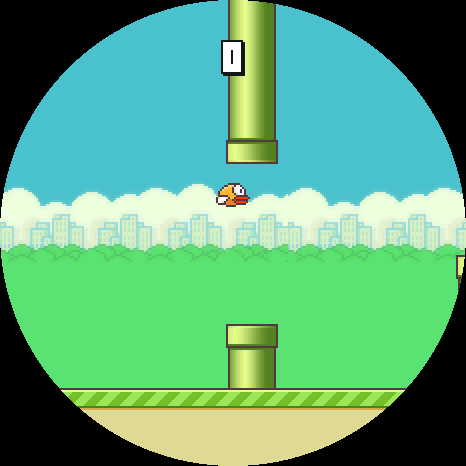
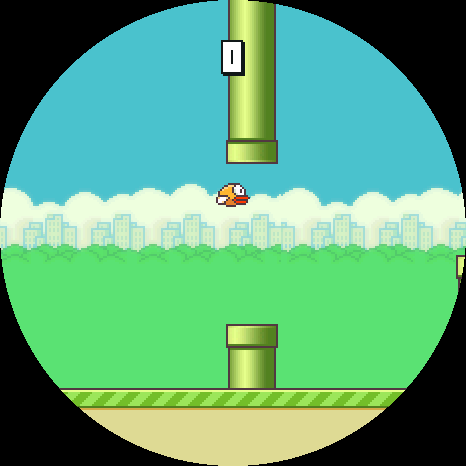
Scroll the scenery in Sky Hop (#3)
The ground moves with the pipes and the town strip behind it at 1/40 of
their speed, while playing. The game keeps how far the pipes have travelled
(scroll), so a full repaint still draws the same as the partial ones. The
ground is repainted every tick; the town strip only when it moves a pixel.
Version 0.1.2.

diff --git a/apps/sky-hop/src/view.rs b/apps/sky-hop/src/view.rs
@@ -20,6 +20,8 @@ const INK: Rgb = Rgb(84, 56, 71);
 pub const SCORE_Y: i32 = 40;
 const DIGIT_H: i32 = 36;
 const DIGIT_GAP: i32 = 2;
+/// The town strip scrolls one px per this many px the pipes travel; the ground goes with the pipes.
+const BAND_SLOW: i32 = 40;
 /// The bird sprite's size, centred on the critter.
 const BIRD_W: i32 = 34;
 const BIRD_H: i32 = 24;
@@ -41,6 +43,8 @@ const DIGITS: [&Sprite; 10] = [
 #[derive(Clone, Copy, PartialEq, Debug)]
 pub struct Seen {
     xs: [i32; crate::game::GATES],
+    band: i32,
+    ground: i32,
     y: i32,
     wing: usize,
     score: u32,
@@ -48,7 +52,7 @@ pub struct Seen {
 }
 
 pub fn seen(g: &Game) -> Seen {
-    Seen { xs: g.gates.map(|gt| gt.x), y: g.hop_y(), wing: g.wing(), score: g.score, state: g.state }
+    Seen { xs: g.gates.map(|gt| gt.x), band: band_x(g), ground: ground_x(g), y: g.hop_y(), wing: g.wing(), score: g.score, state: g.state }
 }
 
 /// A surface that drops what falls outside a box, so a part of the picture can be redrawn alone.
@@ -104,22 +108,37 @@ fn pipes(s: &mut impl Surface, gt: &Gate) {
     shaft(s, gt.x, gt.bottom + PIPE_CAP_H, GROUND_Y - gt.bottom - PIPE_CAP_H);
 }
 
+/// Where the town strip and the ground are scrolled to: how far their tiles are shifted to the left.
+fn band_x(g: &Game) -> i32 {
+    g.scroll / BAND_SLOW % sprites::BAND.w
+}
+
+fn ground_x(g: &Game) -> i32 {
+    g.scroll % sprites::GROUND.w
+}
+
 /// The scenery in a box: sky, the town and grass, the ground. Every pixel of the box once.
-fn scenery(s: &mut impl Surface, x0: i32, y0: i32, w: i32, h: i32) {
+fn scenery(s: &mut impl Surface, g: &Game, x0: i32, y0: i32, w: i32, h: i32) {
     let band_y = GROUND_Y - sprites::BAND.h;
     let mut clip = Clip { s, x0, y0, x1: x0 + w, y1: y0 + h };
     clip.rect(0, 0, SIZE, band_y, sprites::SKY);
-    for x in [0, sprites::BAND.w] {
-        blit(&mut clip, &sprites::BAND, x, band_y);
-    }
-    for x in [0, sprites::GROUND.w] {
-        blit(&mut clip, &sprites::GROUND, x, GROUND_Y);
-    }
+    let tiles = |sp: &Sprite, shift: i32, y: i32, clip: &mut Clip<_>| {
+        if y0 + h > y && y0 < y + sp.h {
+            for k in 0..3 {
+                let x = k * sp.w - shift;
+                if x < x0 + w && x + sp.w > x0 {
+                    blit(clip, sp, x, y);
+                }
+            }
+        }
+    };
+    tiles(&sprites::BAND, band_x(g), band_y, &mut clip);
+    tiles(&sprites::GROUND, ground_x(g), GROUND_Y, &mut clip);
 }
 
 /// The background of a box: the scenery, then the parts of gates in it.
 fn background(s: &mut impl Surface, g: &Game, x0: i32, y0: i32, w: i32, h: i32) {
-    scenery(s, x0, y0, w, h);
+    scenery(s, g, x0, y0, w, h);
     let mut clip = Clip { s, x0, y0, x1: x0 + w, y1: y0 + h };
     for gt in &g.gates {
         pipes(&mut clip, gt);
@@ -127,14 +146,15 @@ fn background(s: &mut impl Surface, g: &Game, x0: i32, y0: i32, w: i32, h: i32) 
 }
 
 /// A gate at its new place; with `from`, the strip it left behind on the right gets the scenery back first.
-fn gate(s: &mut impl Surface, gt: &Gate, from: Option<i32>) {
+fn gate(s: &mut impl Surface, g: &Game, gt: &Gate, from: Option<i32>) {
     if gt.x >= SIZE && from.is_none_or(|x| x >= SIZE) {
         return;
     }
     if let Some(old) = from {
-        // What the pipe left behind, and its two margin columns that the sprite does not paint.
+        // What the pipe left behind, and its two margin columns that the sprite does not paint. Not the ground:
+        // it is repainted whenever it scrolls.
         let x0 = gt.x + GATE_W - 2;
-        scenery(s, x0, 0, old + GATE_W - x0, SIZE);
+        scenery(s, g, x0, 0, old + GATE_W - x0, GROUND_Y);
     }
     pipes(s, gt);
 }
@@ -202,15 +222,22 @@ fn over(s: &mut impl Surface, g: &Game, best: u32) {
     centre(s, C, 290, "TAP TO RETRY", GREY);
 }
 
+/// The town strip moved: repaint its rows, the pipes in them and the bird.
+fn scroll_band(s: &mut impl Surface, g: &Game) {
+    let y = GROUND_Y - sprites::BAND.h;
+    background(s, g, 0, y, SIZE, sprites::BAND.h);
+    blit(s, bird(g.wing()), HOP_X - BIRD_W / 2, g.hop_y() - BIRD_H / 2);
+}
+
 /// Draws the frame for `g`. `prev`: what is on screen now; `None`, or another state, repaints everything.
 pub fn frame(s: &mut impl Surface, g: &Game, best: u32, prev: Option<Seen>) -> Seen {
     let now = seen(g);
     let prev = prev.filter(|p| p.state == g.state);
     match prev {
         None => {
-            scenery(s, 0, 0, SIZE, SIZE);
+            scenery(s, g, 0, 0, SIZE, SIZE);
             for gt in &g.gates {
-                gate(s, gt, None);
+                gate(s, g, gt, None);
             }
             critter(s, g, None);
             match g.state {
@@ -226,11 +253,18 @@ pub fn frame(s: &mut impl Surface, g: &Game, best: u32, prev: Option<Seen>) -> S
         Some(p) => {
             if g.state == State::Playing {
                 for (gt, x) in g.gates.iter().zip(p.xs) {
-                    gate(s, gt, Some(x));
+                    gate(s, g, gt, Some(x));
                 }
+            }
+            if g.state == State::Playing && p.band != now.band {
+                scroll_band(s, g);
             }
             critter(s, g, Some(p.y));
             if g.state == State::Playing {
+                if p.ground != now.ground {
+                    let (y, h) = (GROUND_Y, SIZE - GROUND_Y);
+                    scenery(s, g, 0, y, SIZE, h);
+                }
                 score(s, g, p.score != g.score);
             }
         }
@@ -303,7 +337,7 @@ mod tests {
         let (rx, ry, _, _, c) = bird(g.wing()).rects[0];
         assert_eq!(fb_at(HOP_X - BIRD_W / 2 + rx as i32, g.hop_y() - BIRD_H / 2 + ry as i32), c);
         let mut bare = screen();
-        scenery(&mut Fb::new(&mut bare), 0, 0, SIZE, SIZE);
+        scenery(&mut Fb::new(&mut bare), &g, 0, 0, SIZE, SIZE);
         let (x, y) = (HOP_X - BIRD_W, g.hop_y());
         assert_eq!(fb_at(x, y), bare[(y * SIZE + x) as usize]);
     }

diff --git a/apps/sky-hop/src/game.rs b/apps/sky-hop/src/game.rs
@@ -68,6 +68,8 @@ pub struct Game {
     pub vy: i32,
     pub gates: [Gate; GATES],
     pub score: u32,
+    /// How far the pipes have travelled this run, px: the scenery scrolls by fractions of it.
+    pub scroll: i32,
     tick: u32,
     rng: u32,
 }
@@ -106,6 +108,7 @@ impl Game {
             vy: 0,
             gates: [Gate { x: 0, top: 0, bottom: 0, passed: false }; GATES],
             score: 0,
+            scroll: 0,
             tick: 0,
             rng: seed | 1, // xorshift sticks at 0
         };
@@ -119,6 +122,7 @@ impl Game {
         self.y = C * Q;
         self.vy = 0;
         self.score = 0;
+        self.scroll = 0;
         self.tick = 0;
         let mut prev = C;
         for i in 0..GATES {
@@ -173,6 +177,7 @@ impl Game {
         self.vy = (self.vy + GRAVITY).min(MAX_FALL);
         self.y += self.vy;
         let dx = speed(self.score);
+        self.scroll += dx;
         let mut out = Step::Nothing;
         for i in 0..GATES {
             self.gates[i].x -= dx;
@@ -381,6 +386,25 @@ mod tests {
         assert!(g.crashed(), "the top part reaches into the critter");
         g.gates[0] = Gate { x: HOP_X + R, top: 0, bottom: C - 8, passed: false };
         assert!(!g.crashed(), "the gate starts right after the critter's edge");
+    }
+
+    #[test]
+    fn the_scenery_scrolls_with_the_pipes_while_playing() {
+        let mut g = Game::new(2);
+        for _ in 0..30 {
+            g.step();
+        }
+        assert_eq!(g.scroll, 0, "not while ready");
+        g.flap();
+        let mut dist = 0;
+        for _ in 0..20 {
+            autopilot(&mut g);
+            dist += speed(g.score);
+            g.step();
+        }
+        assert_eq!(g.scroll, dist);
+        g.restart();
+        assert_eq!(g.scroll, 0);
     }
 
     #[test]
